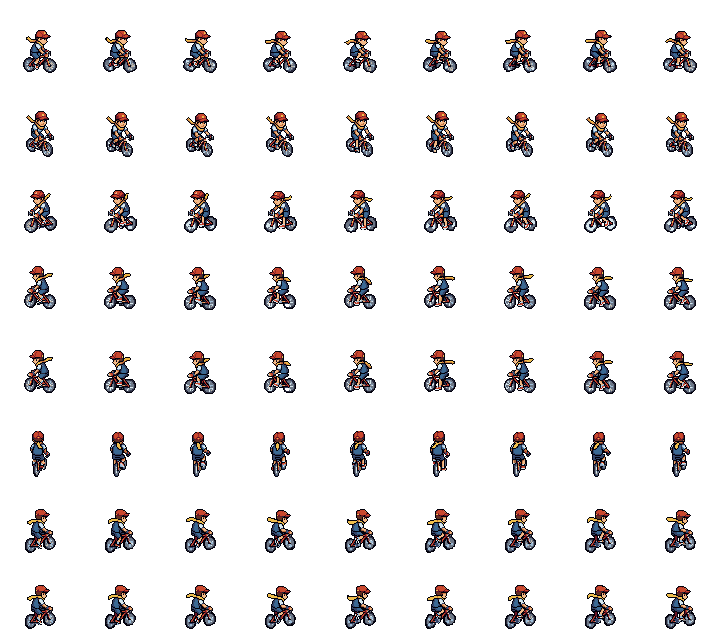
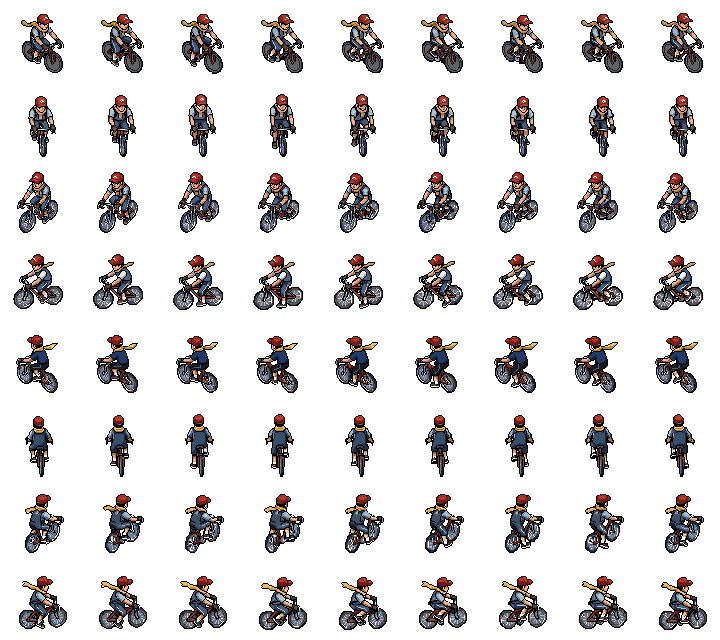
Rookie redrawn on correctly angled poses
PixelLab can't rotate Rookie's own poses onto the isometric headings, so his
look was outfit-transferred (PixelLab transfer_outfit) onto the 9-frame pedal
cycle of the first rider, whose 8 poses line up with the roads; the plain
sheet is the same frames with the pizza transferred off. Sheets keep the
first rider's frame placement, so ground contact is unchanged.

diff --git a/README.md b/README.md
@@ -170,4 +170,4 @@ scripts/iso.gd, bike_draw.gd   drawing helpers
 bridge/trainer_bridge.py    BLE <-> UDP bridge (Python, bleak)
 ```
 
-Everything is drawn procedurally, but pixel art can replace it piece by piece: whatever has no art keeps its procedural drawing (see `scripts/sprites.gd`). Art is read from `art/` (or the game's user data folder under `art/`, for testing without rebuilding). So far riders can use art: `art/bike.png` is a sheet of 64x64 frames, 4 pedal frames across and 8 directions down (down-right, down, down-left, left, up-left, up, up-right, right), with the wheels touching the ground 12 px above the bottom centre of each frame. Optional greyscale `bike_jersey.png` and `bike_frame.png` layers are tinted per rider, `bike_box.png` shows only while carrying a pizza, and `bike_<rider>.png` (e.g. `bike_dave.png`) gives one rider their own sheet. Instead of the box layer a rider can have whole looks: `bike_<rider>_boxed.png` (riding around town with the delivery box), `bike_<rider>_pizza.png` (carrying a pizza) and `bike_<rider>.png` (no box, for races); sheets can have any number of pedal frames, and a single column is a still. Your rider uses these (`art/bike_you_pizza.png` and `art/bike_you.png`, the PixelLab character "Rookie"), built from its export with `godot --headless -s tools/import_rider.gd -- <export dir> rows=south-east,south,west,north-west,north-west,north-east,east,east Idle=bike_you_pizza same_thing_but_witho=bike_you` (`rows=` picks the export pose for each sheet row; see the tool). `PIZZA_DEBUG=bake_bike [PIZZA_WHO=Dave]` draws the current procedural bike in exactly this format to `art/templates/`, as a template to paint over. Dev helpers: `PIZZA_DEBUG=city|race|shop|er|flow|rails|roads|overview godot --path .`; `PIZZA_DEBUG=shot PIZZA_OUT=dir [PIZZA_AT=x,y;...|junctions|shops] [PIZZA_CARRY=1]` saves screenshots (optionally carrying a pizza); `PIZZA_DEBUG=race_shot [PIZZA_COURSE=0|1] PIZZA_OUT=dir` saves race screenshots at the first jump, log, creek and wildlife; `PIZZA_DEBUG=powerups PIZZA_OUT=dir` tries every power-up in town and in a race and saves a screenshot of each; `PIZZA_DEBUG=readme godot --path .` regenerates the README screenshots in `docs/`; `PIZZA_SEASON=spring|summer|fall|winter` forces a season; `PIZZA_DEBUG=seasons [PIZZA_OUT=dir]` saves the title view and each kind of seasonal scenery in every season; `PIZZA_DEBUG=ride [PIZZA_OUT=dir]` rides for a few seconds and writes the Strava TCX file and screenshots.
+Everything is drawn procedurally, but pixel art can replace it piece by piece: whatever has no art keeps its procedural drawing (see `scripts/sprites.gd`). Art is read from `art/` (or the game's user data folder under `art/`, for testing without rebuilding). So far riders can use art: `art/bike.png` is a sheet of 64x64 frames, 4 pedal frames across and 8 directions down (down-right, down, down-left, left, up-left, up, up-right, right), with the wheels touching the ground 12 px above the bottom centre of each frame. Optional greyscale `bike_jersey.png` and `bike_frame.png` layers are tinted per rider, `bike_box.png` shows only while carrying a pizza, and `bike_<rider>.png` (e.g. `bike_dave.png`) gives one rider their own sheet. Instead of the box layer a rider can have whole looks: `bike_<rider>_boxed.png` (riding around town with the delivery box), `bike_<rider>_pizza.png` (carrying a pizza) and `bike_<rider>.png` (no box, for races); sheets can have any number of pedal frames, and a single column is a still. Your rider uses these (`art/bike_you_pizza.png` and `art/bike_you.png`): PixelLab's "Rookie" look, outfit-transferred onto the pedalling frames of an earlier rider whose poses line up with the isometric headings (Rookie's own 8 poses sit between them), then the pizza taken off for the plain sheet. `tools/import_rider.gd` packs a PixelLab character export into these sheets (`rows=` picks which export pose goes on each row). `PIZZA_DEBUG=bake_bike [PIZZA_WHO=Dave]` draws the current procedural bike in exactly this format to `art/templates/`, as a template to paint over. Dev helpers: `PIZZA_DEBUG=city|race|shop|er|flow|rails|roads|overview godot --path .`; `PIZZA_DEBUG=shot PIZZA_OUT=dir [PIZZA_AT=x,y;...|junctions|shops] [PIZZA_CARRY=1]` saves screenshots (optionally carrying a pizza); `PIZZA_DEBUG=race_shot [PIZZA_COURSE=0|1] PIZZA_OUT=dir` saves race screenshots at the first jump, log, creek and wildlife; `PIZZA_DEBUG=powerups PIZZA_OUT=dir` tries every power-up in town and in a race and saves a screenshot of each; `PIZZA_DEBUG=readme godot --path .` regenerates the README screenshots in `docs/`; `PIZZA_SEASON=spring|summer|fall|winter` forces a season; `PIZZA_DEBUG=seasons [PIZZA_OUT=dir]` saves the title view and each kind of seasonal scenery in every season; `PIZZA_DEBUG=ride [PIZZA_OUT=dir]` rides for a few seconds and writes the Strava TCX file and screenshots.
